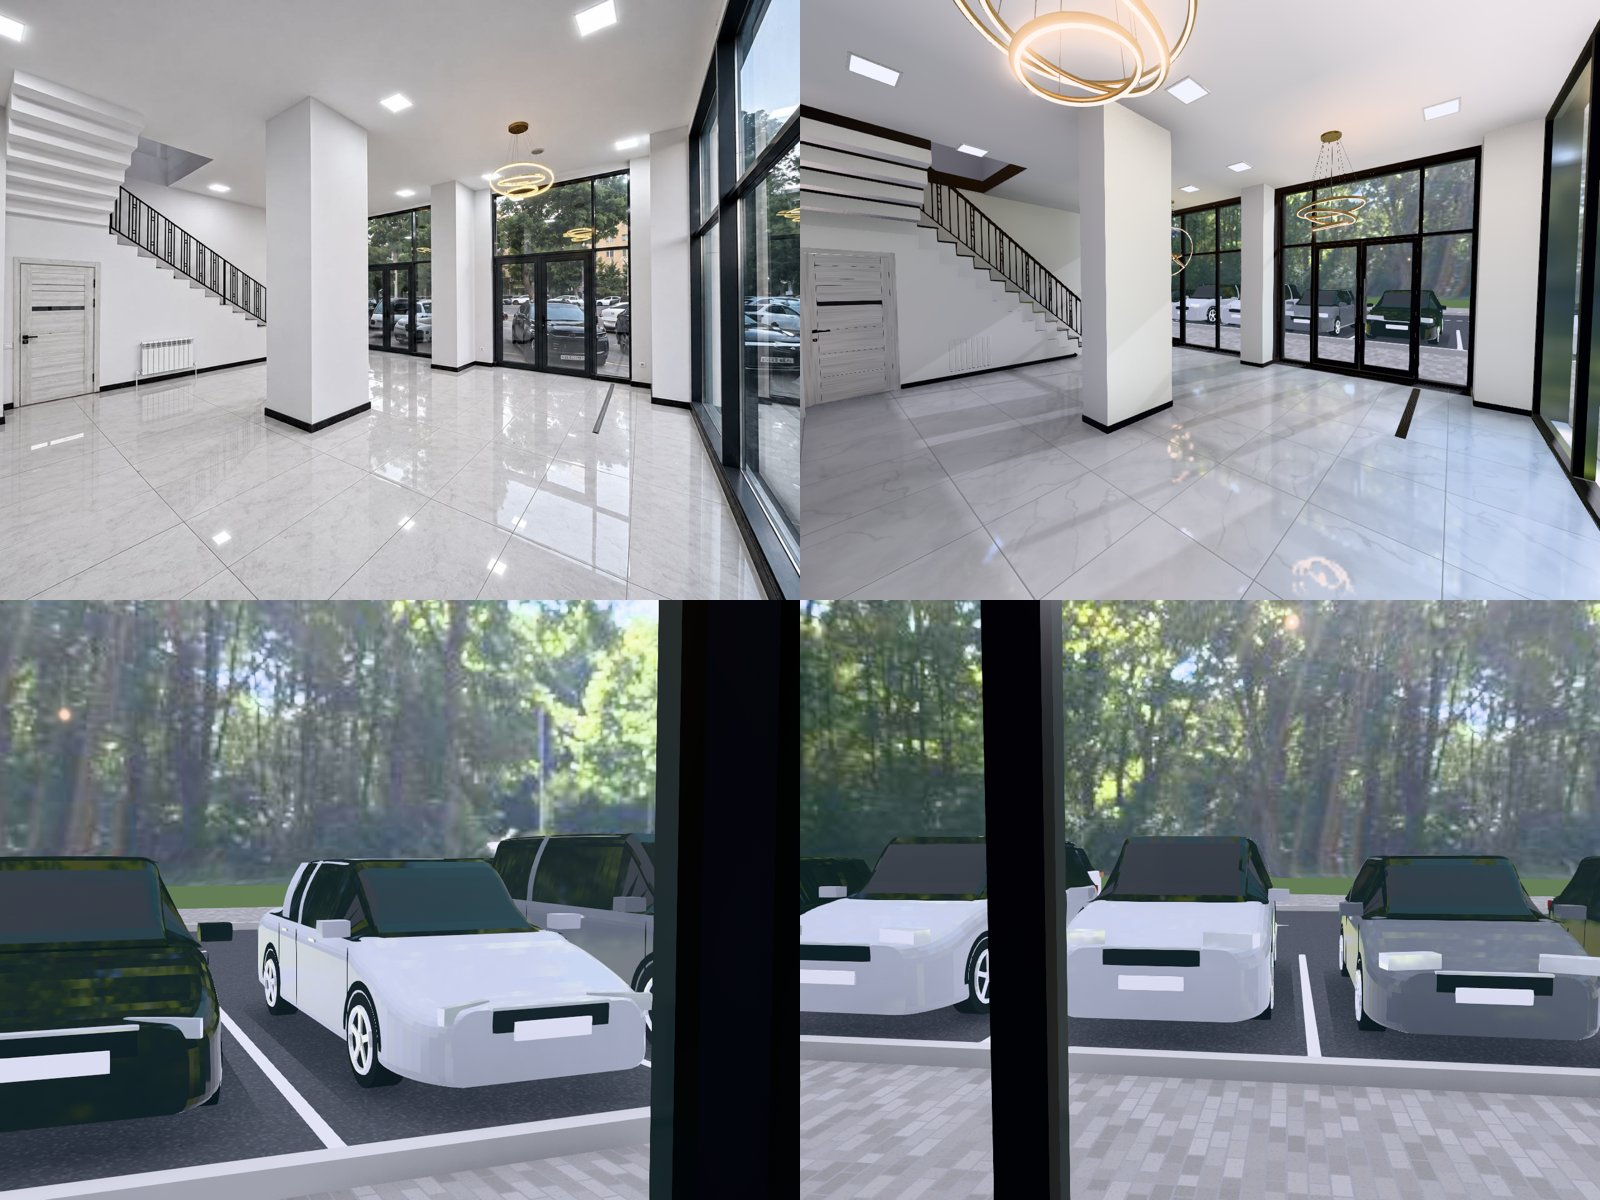
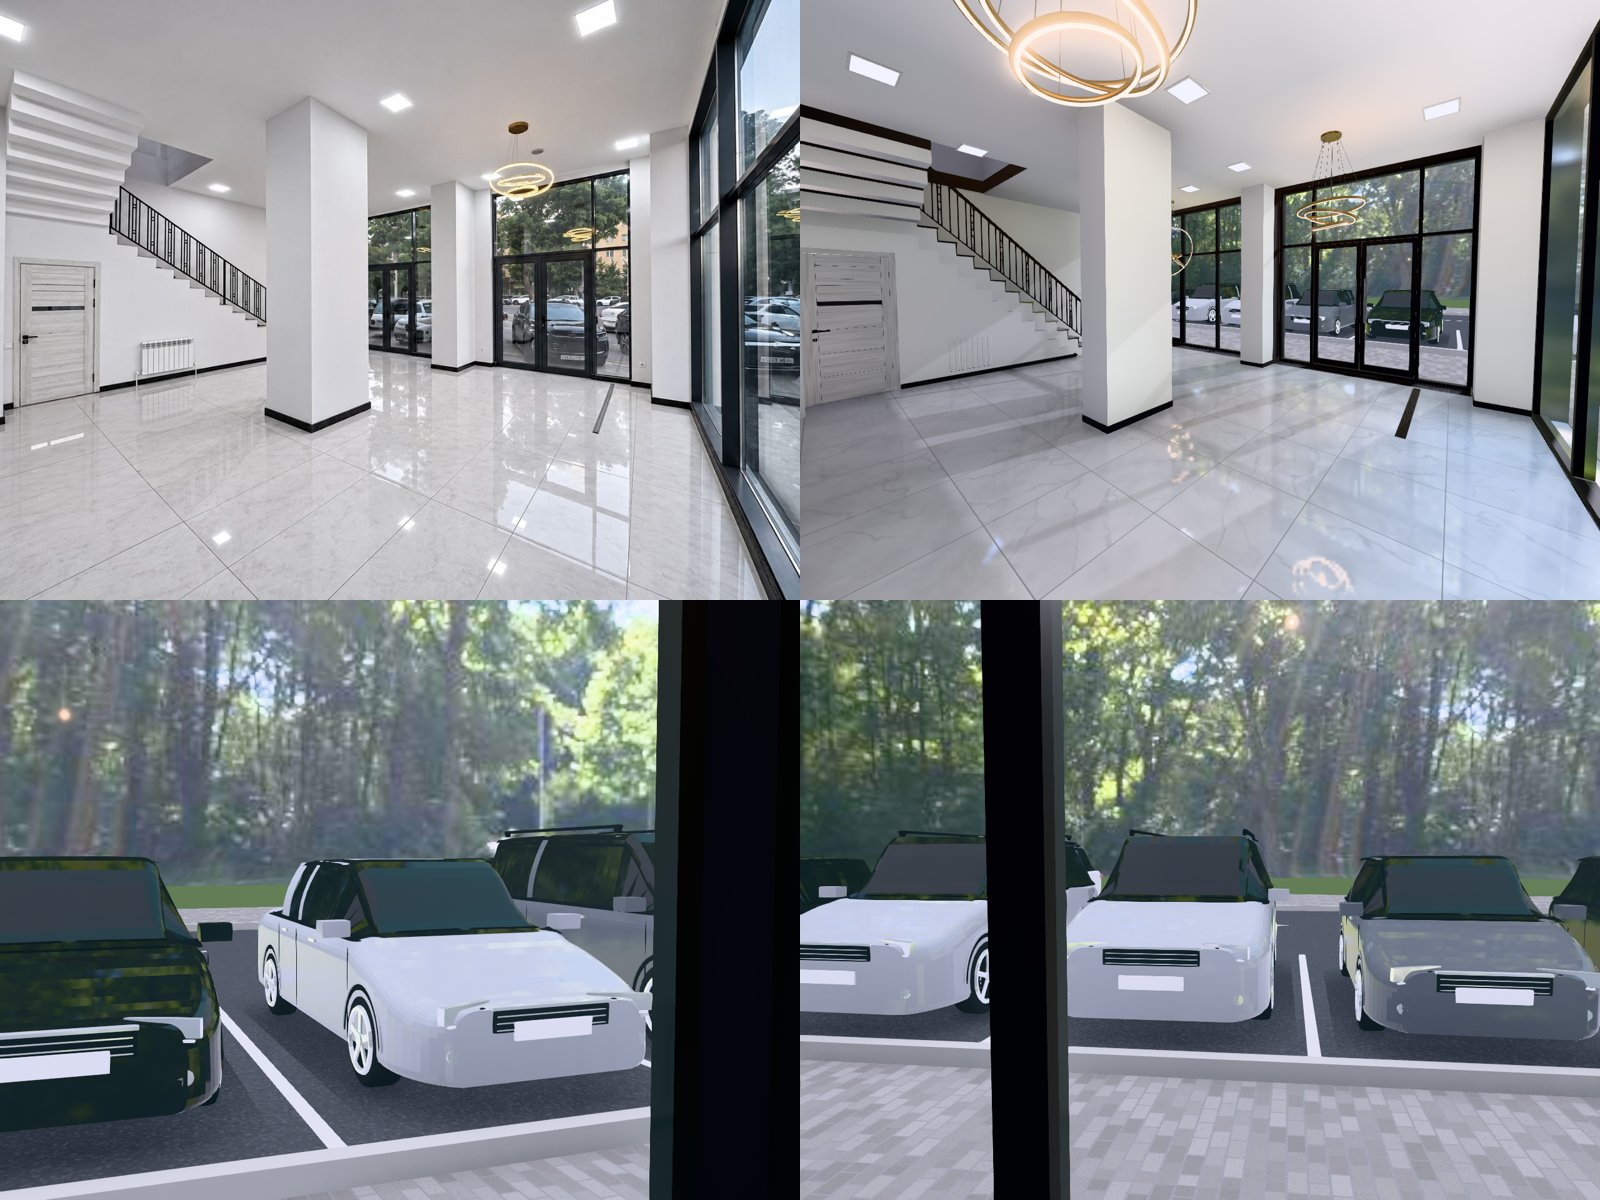
Mashinalar: yumaloq shinalar, arka chetlari, deraza hoshiyasi, yuvgichlar, panjara chiziqlari, kunduzgi va tuman chiroqlari, krossover relslari, pastki soya
Claude-Session: https://claude.ai/code/session_01P9pQftsdzTnGheRvDppN9w

diff --git a/web/src/carmodel.js b/web/src/carmodel.js
@@ -272,11 +272,15 @@ export function buildCarParts( type = 'sedan' ) {
 
 	// --- g'ildiraklar ---
 	const xr = L - P.fo - P.wb, xf = L - P.fo;
-	const tire = [], rim = [], arch = [], hub = [];
+	const tire = [], rim = [], arch = [], hub = [], archLip = [];
 	for ( const wx of [ xr, xf ] ) for ( const s of [ - 1, 1 ] ) {
 
 		const zc = s * ( hw0 - 0.1 );
-		tire.push( new THREE.CylinderGeometry( r, r, 0.205, 28, 1 ).rotateX( Math.PI / 2 ).translate( wx, r, zc ) );
+		// shina: yumaloq yon devorli (lathe profil)
+		const tp = [ [ 0.66, - 0.1 ], [ 0.88, - 0.106 ], [ 0.97, - 0.092 ], [ 1.0, - 0.055 ], [ 1.0, 0.055 ], [ 0.97, 0.092 ], [ 0.88, 0.106 ], [ 0.66, 0.1 ] ];
+		tire.push( new THREE.LatheGeometry( tp.map( ( [ a, b ] ) => new THREE.Vector2( a * r, b ) ), 30 ).rotateX( Math.PI / 2 ).translate( wx, r, zc ) );
+		// arka cheti (kuzov rangida) — g'ildirak ustida bo'rtib turgan yarim halqa
+		archLip.push( new THREE.TorusGeometry( r + 0.07, 0.026, 6, 22, Math.PI ).translate( wx, r, s * ( hw0 - 0.012 ) ) );
 		// disk: kumush halqa + 5 ta parra + markaz qopqog'i; ichi qorong'i
 		const zf = zc + s * 0.104;
 		hub.push( new THREE.CircleGeometry( r * 0.68, 24 ).rotateY( s > 0 ? 0 : Math.PI ).translate( wx, r, zf - s * 0.004 ) );
@@ -298,11 +302,16 @@ export function buildCarParts( type = 'sedan' ) {
 	}
 
 	// --- old/orqa detallar ---
-	const lamp = [], dark = [], red = [], plate = [], chrome = [], mirrorPaint = [];
+	const lamp = [], dark = [], red = [], plate = [], chrome = [], mirrorPaint = [], drl = [];
 	const front = L, ny = P.nose;
 	for ( const s of [ - 1, 1 ] ) {
 
 		lamp.push( new THREE.BoxGeometry( 0.05, 0.1, 0.4 ).rotateY( s * 0.42 ).translate( front - 0.1, ny - 0.07, s * ( hw0 - 0.34 ) ) );
+		// fara ichidagi linzalar va kunduzgi chiroq chizig'i
+		for ( const k of [ - 0.09, 0.07 ] ) dark.push( new THREE.CylinderGeometry( 0.032, 0.032, 0.02, 14 ).rotateZ( Math.PI / 2 ).rotateY( s * 0.42 ).translate( front - 0.075 - Math.abs( k ) * 0.35 * ( k * s > 0 ? 1 : - 1 ), ny - 0.07, s * ( hw0 - 0.34 ) + k ) );
+		drl.push( new THREE.BoxGeometry( 0.02, 0.014, 0.34 ).rotateY( s * 0.42 ).translate( front - 0.07, ny - 0.13, s * ( hw0 - 0.35 ) ) );
+		// tuman chiroqlari
+		lamp.push( new THREE.CylinderGeometry( 0.042, 0.042, 0.03, 14 ).rotateZ( Math.PI / 2 ).translate( front - 0.03, yB + 0.18, s * ( hw0 - 0.24 ) ) );
 		red.push( new THREE.BoxGeometry( 0.05, 0.11, 0.42 ).rotateY( - s * 0.35 ).translate( 0.06, P.tail - 0.1, s * ( hw0 - 0.32 ) ) );
 		// ko'zgular
 		const mx = P.ws[ 0 ] - 0.18, my = belt( mx ) + 0.06;
@@ -314,10 +323,55 @@ export function buildCarParts( type = 'sedan' ) {
 
 	}
 
+	// deraza atrofidagi qora hoshiya: beltline bo'ylab va tom ostida (kabina yon yuzasida)
+	const sideStrip = ( x0, x1, yFn, h, side, n = 14 ) => {
+
+		const pos = [], idx = [];
+		for ( let i = 0; i <= n; i ++ ) {
+
+			const x = lerp( x0, x1, i / n ), y = yFn( x );
+			pos.push( x, y, side * ( sideAt( x, y ) + 0.002 ), x, y + h, side * ( sideAt( x, y + h ) + 0.002 ) );
+
+		}
+
+		for ( let i = 0; i < n; i ++ ) {
+
+			const a = i * 2;
+			if ( side > 0 ) idx.push( a, a + 2, a + 1, a + 1, a + 2, a + 3 ); else idx.push( a, a + 1, a + 2, a + 1, a + 3, a + 2 );
+
+		}
+
+		const g = new THREE.BufferGeometry();
+		g.setAttribute( 'position', new THREE.Float32BufferAttribute( pos, 3 ) );
+		g.setIndex( idx );
+		g.computeVertexNormals();
+		return g;
+
+	};
+
+	for ( const s of [ - 1, 1 ] ) {
+
+		dark.push( sideStrip( P.rw[ 1 ] + 0.08, P.ws[ 0 ] - 0.06, ( x ) => belt( x ) - 0.02, 0.035, s ) );
+		dark.push( sideStrip( P.roof[ 1 ] + 0.02, P.roof[ 0 ] - 0.02, ( x ) => roofLine( x ) - 0.05, 0.03, s ) );
+		if ( type === 'suv' ) {
+
+			// tom relslari va pastki qora qoplama (krossover)
+			const top = hw0 - 0.035 - 0.2 - 0.04 * ( H - 1.4 );
+			dark.push( new THREE.BoxGeometry( P.roof[ 0 ] - P.roof[ 1 ] - 0.1, 0.03, 0.035 ).translate( ( P.roof[ 0 ] + P.roof[ 1 ] ) / 2, H + 0.05, s * ( top - 0.06 ) ) );
+			for ( const lx of [ P.roof[ 1 ] + 0.1, P.roof[ 0 ] - 0.1 ] ) dark.push( new THREE.BoxGeometry( 0.06, 0.06, 0.04 ).translate( lx, H + 0.025, s * ( top - 0.06 ) ) );
+			dark.push( new THREE.BoxGeometry( P.wb - 2 * r - 0.25, 0.13, 0.02 ).translate( L - P.fo - P.wb / 2, yB + 0.07, s * ( hw0 + 0.003 ) ) );
+
+		}
+
+	}
+
 	// panjara, pastki havo olgich, raqamlar
 	dark.push( new THREE.BoxGeometry( 0.06, 0.13, 0.78 ).translate( front - 0.03, ny - 0.12, 0 ) );
 	dark.push( new THREE.BoxGeometry( 0.06, 0.1, 1.1 ).translate( front - 0.05, yB + 0.14, 0 ) );
 	chrome.push( new THREE.BoxGeometry( 0.065, 0.018, 0.8 ).translate( front - 0.03, ny - 0.045, 0 ) );
+	for ( const dy of [ 0.09, 0.13, 0.17 ] ) chrome.push( new THREE.BoxGeometry( 0.064, 0.007, 0.74 ).translate( front - 0.03, ny - dy, 0 ) );
+	// old oyna yuvgichlari
+	for ( const s2 of [ - 1, 1 ] ) dark.push( new THREE.BoxGeometry( 0.02, 0.012, 0.52 ).rotateY( 0.12 * s2 ).translate( P.ws[ 0 ] - 0.08, belt( P.ws[ 0 ] ) + 0.035, s2 * 0.3 - 0.05 ) );
 	plate.push( new THREE.BoxGeometry( 0.02, 0.11, 0.52 ).translate( front + 0.005, yB + 0.3, 0 ) );
 	plate.push( new THREE.BoxGeometry( 0.02, 0.11, 0.52 ).translate( - 0.005, yB + 0.42, 0 ) );
 	dark.push( new THREE.BoxGeometry( 0.05, 0.09, 1.2 ).translate( 0.02, yB + 0.16, 0 ) );
@@ -355,7 +409,8 @@ export function buildCarParts( type = 'sedan' ) {
 	} ) );
 
 	return {
-		paint: M( [ orient( body ), orient( roof ), ...pillars.map( orient ), ...mirrorPaint ] ),
+		paint: M( [ orient( body ), orient( roof ), ...pillars.map( orient ), ...mirrorPaint, ...archLip ] ),
+		drl: M( drl ),
 		glass: M( [ orient( glass ) ] ),
 		tire: M( tire ), rim: M( rim ), hub: M( [ ...hub, ...arch ] ),
 		lamp: M( lamp ), red: M( red ), dark: M( dark ), plate: M( plate ), chrome: M( chrome ),

diff --git a/web/src/surround.js b/web/src/surround.js
@@ -297,7 +297,8 @@ export function buildSurroundings( envTex ) {
 		const P = parts[ type ];
 		const m = new THREE.Matrix4().makeRotationY( rotY ).setPosition( x, 0, z );
 		const o = { uv: false, ao: false };
-		G( P.paint.clone(), paint, m.clone(), o );
+		G( P.paint.clone(), paint, m.clone(), { uv: false, ao: true } ); // pastga qarab yumshoq qorong'ilashadi
+		G( P.drl.clone(), CM.plate, m.clone(), o );
 		G( P.glass.clone(), CM.glass, m.clone(), o );
 		G( P.tire.clone(), CM.tire, m.clone(), o );
 		G( P.rim.clone(), CM.chrome, m.clone(), o );
